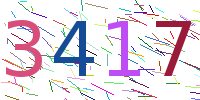
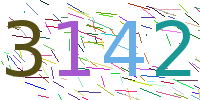
新

diff --git a/出租车/药盒部标.py b/出租车/药盒部标.py
@@ -92,23 +92,12 @@ class login:
         # '013652585555', '013526985544', '015326548554', '013526855522',
         #        '013526855521', '013526855544', '013526855532', '545465454556', '545465454559', '013534985577',
         #        '013525874455', '015869596655']
-        设备号 = '0' + '49563258741'
+        设备号 = '0' + '45262542542'
         print(f"设备号:{设备号}")
 
         流水号 = f'{1}'.zfill(4)
         baojlxs = [
             self.baojing['紧急报警'],
-            # self.baojing['超速报警'], #self.baojing['疲劳驾驶'],
-            # self.baojing['LED顶灯故障'],
-            # self.baojing['进出区域路线报警'],
-            # self.baojing['路段行驶时间不足'], self.baojing['禁行路段行驶'], self.baojing['车辆非法点火'],
-            # self.baojing['车辆非法位移'], self.baojing['所有清零报警'],
-            # self.baojing['终端掉电'],  # self.baojing['危险预警'], self.baojing['模块故障'], self.baojing['模块开路'],
-            # self.baojing['终端欠压'], self.baojing['终端掉电'],
-            # self.baojing['终端LCD故障'],
-            # self.baojing['TTS故障'],
-            # self.baojing['摄像头故障'], #self.baojing['当天累计驾驶时长'],
-            # self.baojing['超时停车']
         ]
         报警 = random.choice(baojlxs)
         # ztai = [self.ztai['ACC开'],

diff --git a/网关车联/新UI测试.py b/网关车联/新UI测试.py
@@ -1678,8 +1678,8 @@ config = ConfigObj(conf_ini, encoding='UTF-8')
 
 def main():
     global stop_threads
-    # send_request()
-    # send_request()
+    send_request()
+    send_request()
     app = App()
     count_runs()
     with open('C:\\Users\\count.txt', 'r') as (file):
